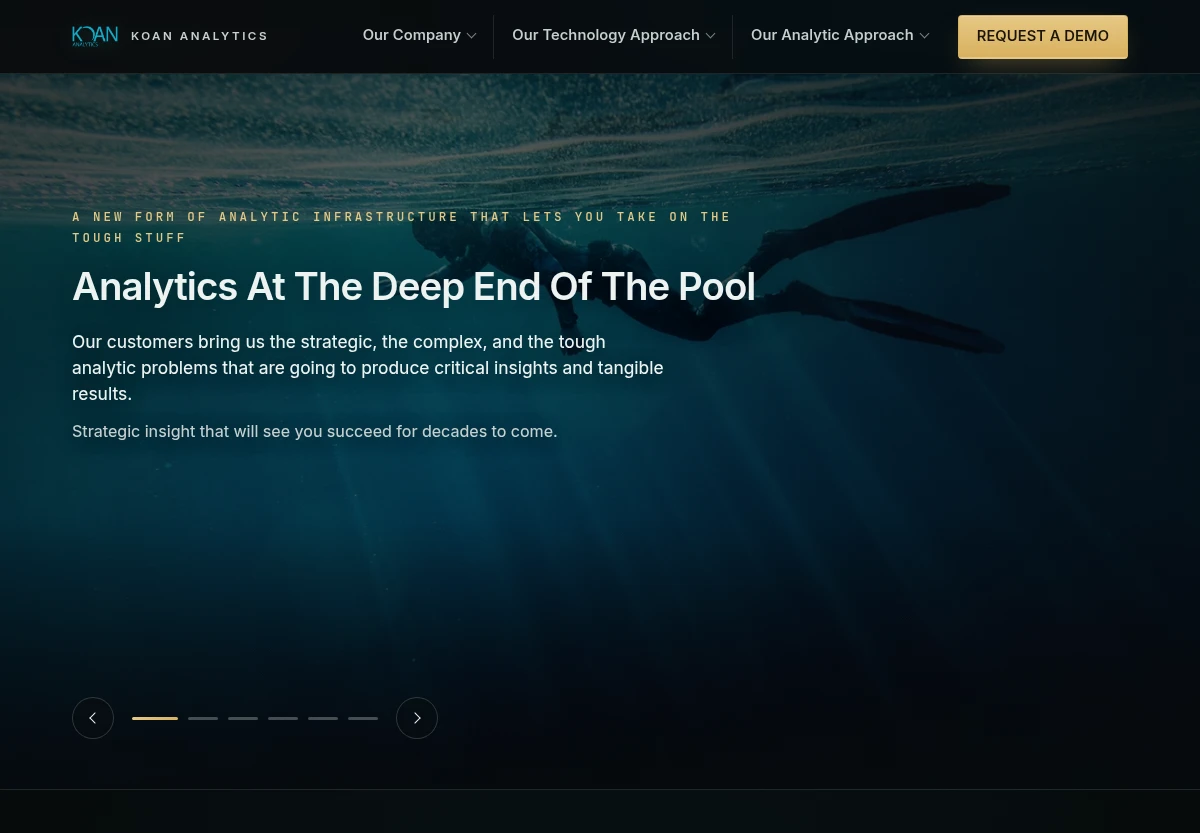
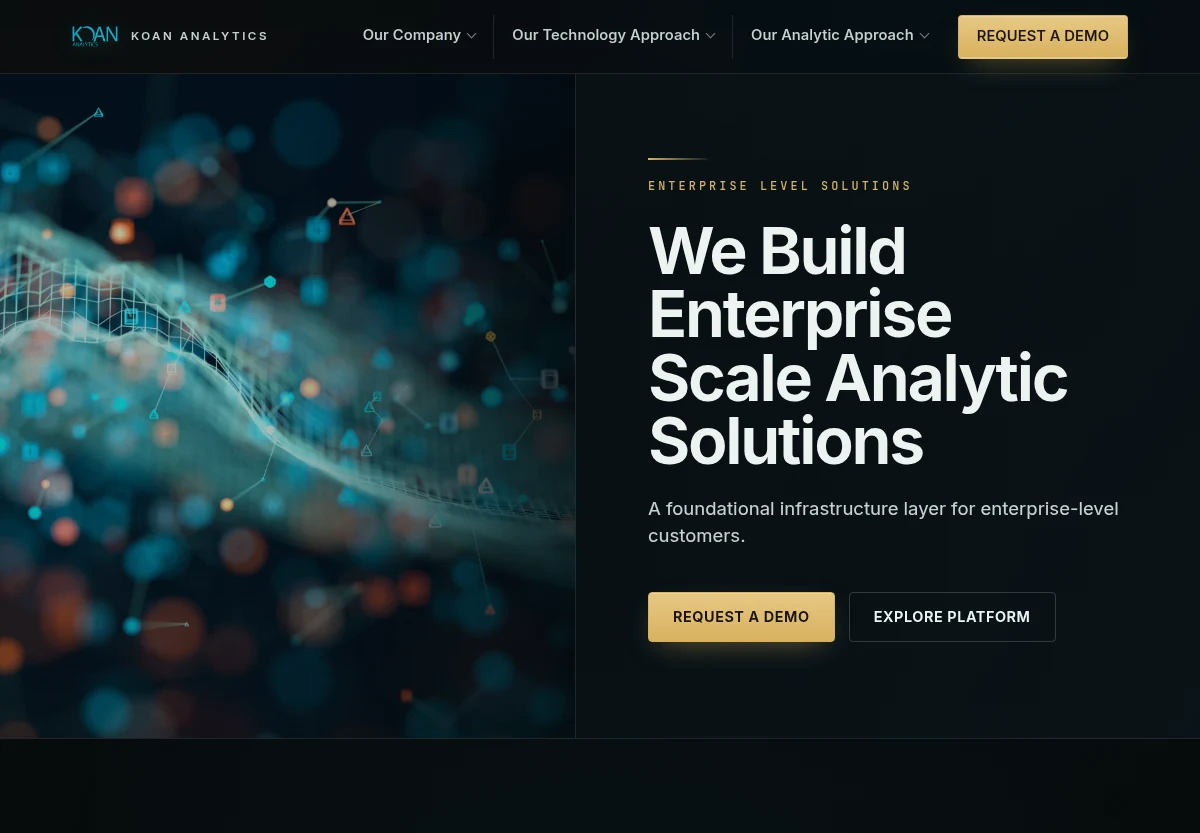
Use Koan platform page and charcoal portfolio card

diff --git a/tests/browser/home.spec.ts b/tests/browser/home.spec.ts
@@ -589,12 +589,12 @@ test("page frames share a contained grid and full-height main sections", async (
   ).toBeLessThanOrEqual(480);
 });
 
-test("Koan paper card and full business process diagram are available", async ({
+test("Koan charcoal card and full business process diagram are available", async ({
   page,
 }) => {
   await page.goto("/");
   const websites = page.locator("#work .project-panel");
-  await expect(websites.nth(4)).toHaveClass(/tone-paper/);
+  await expect(websites.nth(4)).toHaveClass(/tone-charcoal/);
   await expect(websites.nth(4)).toHaveAttribute("href", "/work/koan-analytics");
   const diagram = page.locator(".service-process");
   await diagram.scrollIntoViewIfNeeded();

diff --git a/tests/portfolio.test.ts b/tests/portfolio.test.ts
@@ -15,7 +15,7 @@ test("portfolio links and supplied assets are complete", () => {
     assert.ok(existsSync(`public/work/${p.image}.webp`));
   }
   assert.equal(websiteProjects.at(-2)?.slug, "koan-analytics");
-  assert.equal(websiteProjects.at(-2)?.tone, "paper");
+  assert.equal(websiteProjects.at(-2)?.tone, "charcoal");
   assert.equal(logoProjects.length, 18);
   for (const p of logoProjects) assert.ok(existsSync(`public${p.src}`));
   assert.equal(CONTACT_EMAIL, "jeremy@trickfilm.com");

diff --git a/src/lib/projects.ts b/src/lib/projects.ts
@@ -46,8 +46,8 @@ export const websiteProjects = [
     image: "koan",
     sector: "Enterprise analytics",
     domain: "koananalytics.com",
-    url: "https://koananalytics.com/",
-    tone: "paper",
+    url: "https://koananalytics.com/we-build-end-to-end-analytic-platforms/",
+    tone: "charcoal",
     description:
       "A website for Koan Analytics and its enterprise analytics platform.",
   },

diff --git a/README.md b/README.md
@@ -60,4 +60,4 @@ Service opacity and active numbering use the actual flower center as the alignme
 
 ## Additional portfolio assets
 
-Koan Analytics uses a locally optimized screenshot of its public homepage, captured for this portfolio. Its paper card sits immediately before StrataCouncil.ca. The Business Process Design laptop uses the exact PNG supplied in `RAAVDiagram_ABR_ v2.png.zip`, without cropping or recreating the diagram; its link opens the full-resolution image.
+Koan Analytics uses a locally optimized screenshot of its public “We Build End-To-End Analytic Platforms” page, captured for this portfolio. Its charcoal card sits immediately before StrataCouncil.ca. The Business Process Design laptop uses the exact PNG supplied in `RAAVDiagram_ABR_ v2.png.zip`, without cropping or recreating the diagram; its link opens the full-resolution image.
